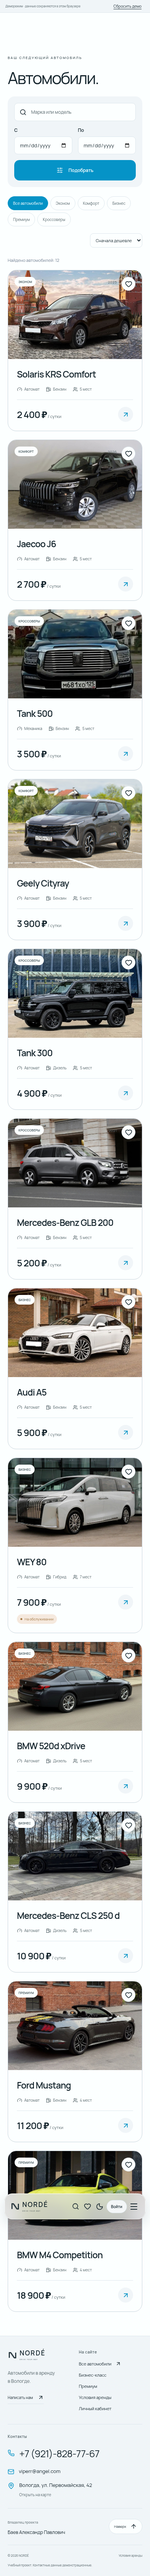
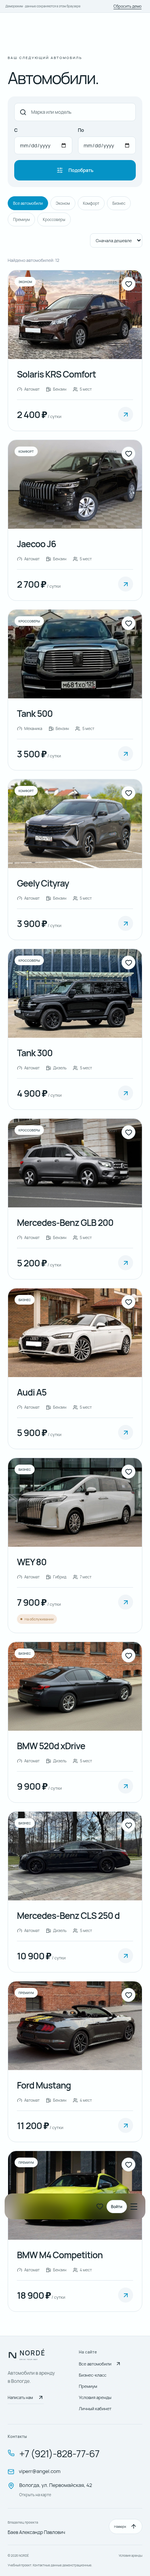
Keep only light theme and document coursework defense readiness

Changed region(s): [[0.0308, 0.8407, 0.9846, 0.8719]]

diff --git a/client/src/themes.css b/client/src/themes.css
@@ -13,21 +13,6 @@
   --lime: #fcffff;
   --soft: #eaf7fc;
 }
-:root[data-theme="dark"] {
-  color-scheme: dark;
-  --page: #0a1430;
-  --surface: #112040;
-  --glass: rgba(10, 20, 48, 0.86);
-  --ink: #eef7ff;
-  --muted: #a7bad4;
-  --line: #294366;
-  --primary: #0297de;
-  --accent: #fc734d;
-  --wash: #14294b;
-  --green: #0297de;
-  --lime: #0a1430;
-  --soft: #14294b;
-}
 body {
   background:
     radial-gradient(
@@ -228,17 +213,6 @@ input[type="checkbox"] {
   margin-top: 2px;
   flex-shrink: 0;
 }
-.theme-toggle {
-  flex-shrink: 0;
-  border: 1px solid var(--line);
-  border-radius: 50%;
-  background: var(--surface);
-  width: 38px;
-  height: 38px;
-}
-.theme-toggle:hover {
-  background: var(--wash);
-}
 .journey {
   background: linear-gradient(
     120deg,
@@ -256,44 +230,6 @@ th,
 .profile-card,
 .checkbox-line {
   border-color: var(--line);
-}
-[data-theme="dark"] .table-wrap,
-[data-theme="dark"] table,
-[data-theme="dark"] tbody tr,
-[data-theme="dark"] .admin-main,
-[data-theme="dark"] .admin-layout,
-[data-theme="dark"] .admin-content,
-[data-theme="dark"] .detail-specs,
-[data-theme="dark"] .detail-description,
-[data-theme="dark"] .stat-card {
-  background: var(--surface);
-  color: var(--ink);
-}
-[data-theme="dark"] th,
-[data-theme="dark"] tbody tr:hover {
-  background: var(--wash);
-  color: var(--ink);
-}
-[data-theme="dark"] .footer p,
-[data-theme="dark"] .footer a,
-[data-theme="dark"] .photo-field small,
-[data-theme="dark"] .conditions article p,
-[data-theme="dark"] .detail-description p,
-[data-theme="dark"] .admin-heading p {
-  color: var(--muted);
-}
-[data-theme="dark"] .error {
-  color: #ffb39e;
-  background: #411f32;
-}
-[data-theme="dark"] .hero-label {
-  background: #0a143099;
-  color: #fcffff;
-  border-color: #ffffff70;
-}
-[data-theme="dark"] .car-visual img[src$=".svg"],
-[data-theme="dark"] .detail-visual img[src$=".svg"] {
-  filter: brightness(1.2);
 }
 @media (max-width: 640px) {
   .header-actions {

diff --git a/scripts/check-full-catalog.js b/scripts/check-full-catalog.js
@@ -10,7 +10,12 @@ try {
   const errors = [];
   p.on("pageerror", (e) => errors.push(e.message));
   await fs.mkdir("docs/screenshots/full-catalog", { recursive: true });
+  await p.addInitScript(() => localStorage.setItem("avtobaza-theme", "dark"));
   await p.goto("http://127.0.0.1:5173/catalog");
+  await expect(p.locator("html")).toHaveAttribute("data-theme", "light");
+  await expect(p.getByRole("button", { name: /Включить.*тему/ })).toHaveCount(
+    0,
+  );
   await expect(p.locator(".car-card")).toHaveCount(12);
   await p.evaluate(() => {
     const d = JSON.parse(localStorage.getItem("avtobaza-preview-v1"));
@@ -69,7 +74,7 @@ try {
   ).toBeVisible();
   for (const width of [1440, 390, 320]) {
     await p.setViewportSize({ width, height: 1000 });
-    for (const theme of ["light", "dark"]) {
+    for (const theme of ["light"]) {
       if ((await p.locator("html").getAttribute("data-theme")) !== theme)
         await p
           .getByRole("button", {
@@ -98,7 +103,7 @@ try {
   await expect.poll(() => p.evaluate(() => scrollY)).toBeLessThan(10);
   expect(errors).toEqual([]);
   console.log(
-    "PASS: all 12 photos decode, legacy photo migration preserves IDs/mileage/events/custom photo, footer contacts/map, back to top and 320/390/1440px both themes; no browser errors",
+    "PASS: all 12 photos decode, legacy photo migration preserves IDs/mileage/events/custom photo, footer contacts/map, back to top and 320/390/1440px light theme, including saved legacy dark preference; no browser errors",
   );
 } finally {
   await browser.close();

diff --git a/client/index.html b/client/index.html
@@ -1,1 +1,1 @@
-<!doctype html><html lang="ru"><head><meta charset="UTF-8"><meta name="viewport" content="width=device-width, initial-scale=1.0"><meta name="theme-color" content="#0593c6"><meta name="description" content="NORDÉ — аренда автомобилей в Вологде. Выберите автомобиль, рассчитайте стоимость и управляйте бронированиями в личном кабинете."><title>NORDÉ — аренда автомобилей в Вологде</title><link rel="icon" type="image/svg+xml" href="/favicon.svg"></head><body><script src="/theme-init.js"></script><div id="root"></div><script type="module" src="/src/main.jsx"></script></body></html>
+<!doctype html><html lang="ru" data-theme="light"><head><meta charset="UTF-8"><meta name="viewport" content="width=device-width, initial-scale=1.0"><meta name="theme-color" content="#0593c6"><meta name="description" content="NORDÉ — аренда автомобилей в Вологде. Выберите автомобиль, рассчитайте стоимость и управляйте бронированиями в личном кабинете."><title>NORDÉ — аренда автомобилей в Вологде</title><link rel="icon" type="image/svg+xml" href="/favicon.svg"></head><body><script src="/theme-init.js"></script><div id="root"></div><script type="module" src="/src/main.jsx"></script></body></html>

diff --git a/client/src/norde.css b/client/src/norde.css
@@ -33,15 +33,6 @@
   color: var(--ink);
   min-height: 100vh;
 }
-[data-theme="dark"] .client-site {
-  --page: #0a1430;
-  --surface: #0e1c38;
-  --wash: #152541;
-  --ink: #edf4f7;
-  --muted: #aab8c9;
-  --line: #293953;
-  --glass: #0e1c38;
-}
 .client-site .header {
   height: 88px;
   background: var(--page);
@@ -110,13 +101,6 @@
 }
 .client-site .button.small {
   padding: 11px 17px;
-}
-.client-site .theme-toggle {
-  width: 35px;
-  height: 35px;
-  border: 0;
-  background: transparent;
-  color: var(--ink);
 }
 .client-site .wrap {
   max-width: 1440px;
@@ -745,23 +729,4 @@
 .client-site .empty .icon-box {
   background: var(--wash);
   color: var(--muted);
-}
-[data-theme="dark"] .client-site .badge {
-  background: #213350;
-  color: #c2d6ef;
-}
-[data-theme="dark"] .client-site .badge.available,
-[data-theme="dark"] .client-site .badge.completed {
-  background: #153b38;
-  color: #a1d9c1;
-}
-[data-theme="dark"] .client-site .badge.maintenance,
-[data-theme="dark"] .client-site .badge.new {
-  background: #463721;
-  color: #f1d1a2;
-}
-[data-theme="dark"] .client-site .badge.cancelled,
-[data-theme="dark"] .client-site .badge.faulty {
-  background: #402b37;
-  color: #e8b3c0;
 }

diff --git a/client/src/rental-edition.css b/client/src/rental-edition.css
@@ -19,13 +19,6 @@
     box-shadow 0.2s,
     background 0.2s;
 }
-[data-theme="dark"] .client-site .header {
-  background: rgba(14, 29, 53, 0.82);
-  border-color: #7f9ac12b;
-  box-shadow:
-    inset 0 1px 0 #b9d9ff26,
-    0 8px 32px #0003;
-}
 .client-site .header.is-scrolled {
   box-shadow:
     inset 0 1px 0 #ffffff60,
@@ -649,10 +642,6 @@
   .client-site .header-search {
     display: grid;
   }
-  .client-site .header .theme-toggle {
-    width: 29px;
-    height: 34px;
-  }
   .client-site .header .icon-button {
     padding: 3px;
     min-width: 28px;
@@ -895,18 +884,6 @@
   .rental-categories a:hover {
     transform: none;
   }
-}
-[data-theme="dark"] .rental-categories a:last-child {
-  background: #173958;
-  color: var(--ink);
-  border-color: #386181;
-}
-[data-theme="dark"] .rental-categories a:last-child > span {
-  color: var(--muted);
-  opacity: 1;
-}
-[data-theme="dark"] .rental-categories a:last-child svg {
-  color: var(--primary);
 }
 @media (max-width: 640px) {
   .stage-photo img {

diff --git a/client/src/main.jsx b/client/src/main.jsx
@@ -2,7 +2,6 @@ import Footer from "./Footer";
 import RentalHome from "./RentalHome";
 import useFavorites from "./useFavorites";
 import Brand from "./Brand";
-import ThemeToggle from "./ThemeToggle";
 import EligibilityFields, { eligibilityForm } from "./EligibilityFields";
 import { canRent } from "../../shared/eligibility";
 import React, {
@@ -312,7 +311,6 @@ function Header() {
               </Link>
             </>
           )}
-          <ThemeToggle />
           <button
             type="button"
             className="location header-city"

diff --git a/scripts/check-rental.js b/scripts/check-rental.js
@@ -124,7 +124,7 @@ try {
   await expect(page.locator(".stage-link")).toBeVisible();
   for (const width of [1440, 390, 320]) {
     await page.setViewportSize({ width, height: 950 });
-    for (const theme of ["light", "dark"]) {
+    for (const theme of ["light"]) {
       await page.goto("http://127.0.0.1:5173");
       if ((await page.locator("html").getAttribute("data-theme")) !== theme)
         await page

diff --git a/client/src/motion-edition.css b/client/src/motion-edition.css
@@ -4,14 +4,6 @@
   --ink: #15252d;
   --line: #dce6ec;
 }
-[data-theme="dark"] .client-site {
-  --page: #0a1430;
-  --surface: #101f3c;
-  --wash: #142645;
-  --ink: #eff6fc;
-  --line: #293d59;
-  --muted: #a9bbd1;
-}
 .client-site .header {
   border-bottom: 0;
   height: 86px;

diff --git a/client/public/theme-init.js b/client/public/theme-init.js
@@ -1,4 +1,4 @@
+document.documentElement.dataset.theme = "light";
 try {
-  document.documentElement.dataset.theme =
-    localStorage.getItem("avtobaza-theme") === "dark" ? "dark" : "light";
+  localStorage.removeItem("avtobaza-theme");
 } catch {}

diff --git a/docs/DEFENSE_READINESS.md b/docs/DEFENSE_READINESS.md
@@ -1,0 +1,44 @@
+# Готовность NORDÉ к защите
+
+Проверка по приложенной методичке ПиТПМ, 6 ноября 2026 года. Это план подготовки, а не гарантия оценки.
+
+## Основной вывод
+
+Функциональная основа уже есть. Следующий этап — воспроизводимый запуск с настоящей MongoDB на компьютере для защиты, актуальные доказательства тестирования и согласованная с сайтом записка. Демо в браузере предназначено для просмотра интерфейса.
+
+## Что реализовано
+
+- React → Express API → MongoDB/Mongoose. Коллекции users, cars, rentals, maintenances, events и sessions.
+- Клиент, менеджер и администратор с проверкой прав на сервере. Пароли хешируются; серверные сессии и CSRF-защита.
+- Регистрация с возрастом, правами и стажем; каталог, даты, расчёт суммы и залога, заявка, отмена, личный кабинет.
+- Подтверждение, выдача и возврат автомобиля, обновление пробега, техническое обслуживание, архивирование, роли и журнал операций.
+- Индексы, транзакции и проверка пересечений аренды защищают от двойного бронирования. Для этого MongoDB должна поддерживать транзакции: используется replica set.
+- 12 учебных машин с фото, галереи, карусель, поиск, избранное браузера, постоянное хранилище серверных данных в полном режиме.
+
+## Что подготовить перед сдачей
+
+| Приоритет | Работа | Результат для защиты |
+|---|---|---|
+| 1 | Запустить полный режим на компьютере для защиты | Сайт работает через API с MongoDB, а не через localStorage |
+| 2 | Проверить сохранение после остановки и повторного запуска | Пользователь и созданная аренда остаются в MongoDB |
+| 3 | Пройти сценарий клиент → менеджер → возврат | Видны изменение статуса, пробег и история |
+| 4 | Показать ошибочные сценарии | Нельзя арендовать занятую машину, снизить пробег или получить чужую заявку |
+| 5 | Обновить Word/PDF | NORDÉ, светлая тема, новый автопарк, действующие формы и скриншоты соответствуют коду |
+| 6 | Обновить отчёты тестирования | Фактические результаты unit/integration, E2E, покрытия и нагрузки текущей версии |
+| 7 | Подготовить презентацию и репетицию | 5–9 слайдов и понятное объяснение архитектуры, данных и проверок |
+
+Методичка явно требует базу данных, TDD, E2E и нагрузочные испытания; минимум 25 страниц без приложений. Также указаны IDEF0 (три уровня), DFD и UML: классы, use case, sequence, activity. Диаграммы и отчёты в репозитории уже есть, но после изменений необходимо сверить их с итоговой версией. Доказательства TDD должны отражать реальные шаги разработки; нельзя выдавать задним числом придуманные «падающие тесты» за историю работы.
+
+## Запуск с MongoDB
+
+Пошаговый порядок находится в [START_HERE.md](START_HERE.md#3-первый-запуск). Через Docker Compose MongoDB поднимается локально как replica set, данные сохраняются в volume. При остановке не удаляйте volume: `docker compose down -v` удаляет базу.
+
+Если Docker на Windows остаётся проблемой, сервер может работать с MongoDB Atlas через MONGODB_URI. Нужны интернет и настройка доступа к кластеру. Для защиты без зависимости от интернета предпочтительна локальная установка. Обычная standalone MongoDB не подходит для используемых транзакций без настройки replica set.
+
+В MongoDB Compass полезно показать users, cars и rentals и объяснить ссылки user/car, снимок тарифа, индексы и вложенную историю. Фотографии хранятся файлами, в базе — пути. В резервную копию включают базу и uploads/; код и учебные изображения находятся в репозитории.
+
+## Ограничения, которые нужно уметь объяснить
+
+Это учебный сервис: нет банковского эквайринга, автоматической проверки прав и документов, восстановления пароля и почтовых уведомлений. Флажки возраста/прав — подтверждение пользователя; документы проверяет менеджер при выдаче. Контакты и автопарк демонстрационные. Избранное хранится в браузере. Эти ограничения стоит описать в записке как границы проекта, а не обещать реализованный функционал.
+
+Для курсовой полезнее отработать существующий процесс и доказать его корректность, чем расширять интерфейс новыми неподготовленными функциями. Окончательную оценку определяют требования преподавателя, оформление и защита.

diff --git a/docs/START_HERE.md b/docs/START_HERE.md
@@ -65,7 +65,7 @@ npm start
 | `npm ci` | Устанавливает версии зависимостей из package-lock.json |
 | `npm run setup:env` | Создаёт локальный `.env` со случайным секретом сессии; существующий файл не меняет |
 | `npm run db:up` | Запускает MongoDB в Docker, включает replica set и ждёт готовности |
-| `npm run seed` | Добавляет восемь учебных автомобилей и три аккаунта; существующие данные сохраняет |
+| `npm run seed` | Добавляет 12 учебных автомобилей и три аккаунта; существующие данные сохраняет |
 | `npm run build` | Собирает клиентский интерфейс в `dist` |
 | `npm start` | Запускает сервер сайта на порту 3000 |
 
@@ -286,11 +286,11 @@ npm run test:load
 
 Если гость нажимает «Забронировать», открывается регистрация с вкладкой входа для существующих клиентов. Выбранные автомобиль, даты и услуги остаются на странице. После регистрации нажмите «Забронировать» ещё раз: заявка не отправляется автоматически.
 
-Кнопка с луной/солнцем в шапке переключает тему. Выбор сохраняется в этом браузере. Светлая палитра: #0593c6, #fcffff, #db3996; тёмная: #0a1430, #0297de, #fc734d. Для текста и второстепенных поверхностей используются дополнительные нейтральные оттенки.
+В текущей версии используется только светлая тема. Переключатель удалён, ранее сохранённая тёмная тема больше не применяется.
 
 ## Главная, избранное и новая шапка
 
-Шапка закреплена сверху и доступна при прокрутке. Лупа открывает поиск по марке или модели, сердечко — избранное, луна/солнце меняет тему, имя пользователя открывает кабинет. Избранное сохраняется в этом браузере. Кнопка «Вологда» показывает порядок получения.
+Шапка закреплена сверху и доступна при прокрутке. Лупа открывает поиск по марке или модели, сердечко — избранное, имя пользователя открывает кабинет. Избранное сохраняется в этом браузере. Кнопка «Вологда» показывает порядок получения.
 
 На главной выберите даты: карусель показывает доступные на этот срок автомобили с фотографиями и меняется раз в 2 секунды. Стрелки переключают машину вручную; кнопка паузы останавливает показ. При наведении, фокусе на кнопках, скрытой вкладке и системной настройке уменьшения анимации автоматическая смена приостанавливается. Наличие обновляется при смене дат, возвращении в окно и раз в 30 секунд; окончательная проверка выполняется при бронировании.
 
@@ -303,3 +303,7 @@ npm run test:load
 Каталог полностью заполнен фото. В демо старые стандартные карточки с SVG обновляются автоматически; их идентификаторы, пробег, статусы и заявки сохраняются. Загруженные пользователем фотографии не перезаписываются. Для MongoDB выполните `npm.cmd run seed` в учебном режиме: он добавит недостающие записи и обновит стандартные иллюстрации.
 
 Подвал содержит демонстрационные контакты, предоставленные пользователем: Баев Александр Павлович, Вологда, Первомайская, 42, viperr@angel.com, +7 (921)-828-77-67. Телефон и почта кликабельны; адрес открывает карту, кнопка «Наверх» возвращает к началу страницы.
+
+## Подготовка к защите
+
+Используется только светлая тема. План запуска MongoDB, проверки сохранности данных, демонстрации функций и обновления пояснительной записки: [DEFENSE_READINESS.md](DEFENSE_READINESS.md).
